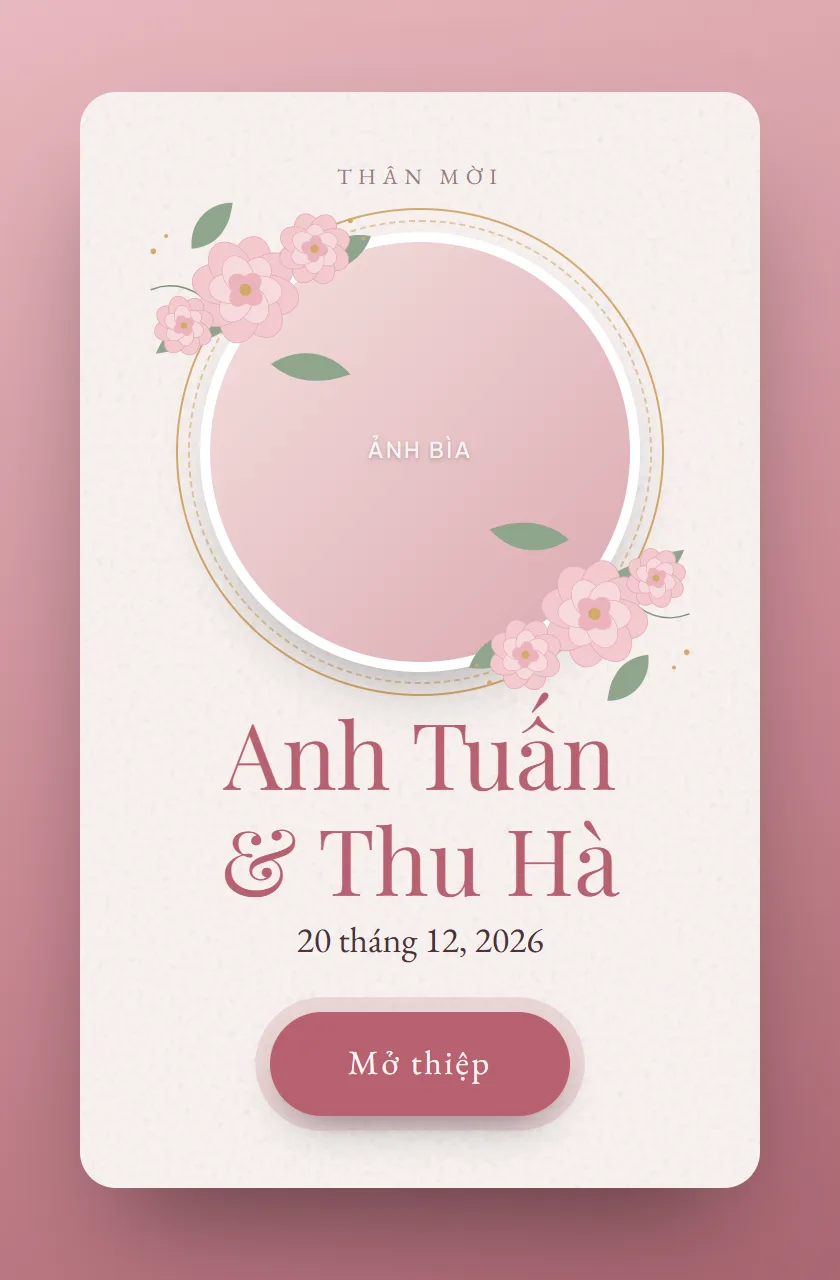
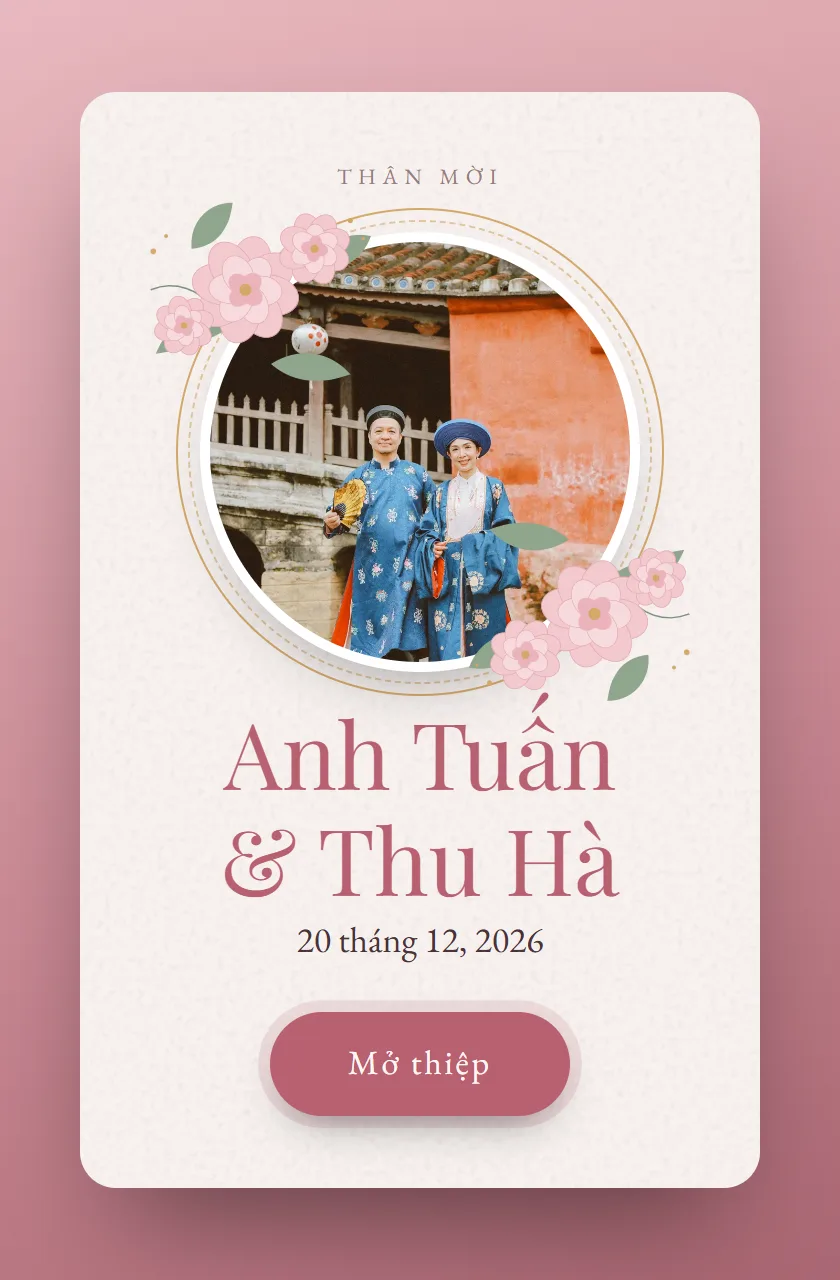
Ảnh demo Unsplash, thẻ album ngang, khối mời tác giả cà phê
- public/demo: 14 ảnh cưới Unsplash (nguồn trong CREDITS.md), chỉ trang demo
  và ảnh OG demo dùng; thiệp mới tạo vẫn trống ảnh
- Album: thẻ tự thành khung ngang khi ảnh ngang; nhận ra cả ảnh đã tải xong
  trước khi React gắn onLoad
- Trang chủ: khối "Mời tác giả cốc cà phê" với VietQR, tài khoản đọc từ
  biến môi trường DONATE_*; chưa đặt thì ẩn
- Ảnh OG đọc được ảnh tĩnh trong public/
- Chụp lại ảnh bìa 8 mẫu (giờ có ảnh thật)

Changed region(s): [[0.2476, 0.1875, 0.7738, 0.5312]]

diff --git a/src/lib/sample.ts b/src/lib/sample.ts
@@ -1,8 +1,20 @@
 import { makeId, type Invitation, type TemplateId } from "@/lib/schema";
 
-/** Dữ liệu mẫu: dùng cho trang demo và làm nội dung khởi tạo khi tạo thiệp mới. */
-export function sampleInvitation(slug: string, template: TemplateId, editKey = makeId() + makeId()): Invitation {
+/** Ảnh demo (Unsplash, xem public/demo/CREDITS.md). Chỉ trang demo dùng, thiệp mới tạo để trống. */
+const DEMO_PHOTOS = {
+  cover: "/demo/cover.webp",
+  saveTheDate: ["/demo/groom.webp", "/demo/bride.webp"],
+  album: ["/demo/album-1.webp", "/demo/album-2.webp", "/demo/album-3.webp", "/demo/album-4.webp", "/demo/album-5.webp", "/demo/album-6.webp", "/demo/album-7.webp", "/demo/album-8.webp"],
+  story: ["/demo/story-1.webp", "/demo/story-2.webp", "/demo/story-3.webp"],
+};
+
+/**
+ * Dữ liệu mẫu: dùng cho trang demo (withPhotos = true, có ảnh) và làm nội dung
+ * khởi tạo khi tạo thiệp mới (không ảnh).
+ */
+export function sampleInvitation(slug: string, template: TemplateId, editKey = makeId() + makeId(), withPhotos = false): Invitation {
   const now = new Date().toISOString();
+  const p = withPhotos ? DEMO_PHOTOS : null;
   return {
     slug,
     template,
@@ -48,12 +60,12 @@ export function sampleInvitation(slug: string, template: TemplateId, editKey = m
       { time: "14:30", title: "Kết thúc tiệc" },
     ],
     story: [
-      { label: "2019", title: "Lần đầu gặp", text: "Chung một nhóm thiện nguyện ở Mộc Châu.", photo: "" },
-      { label: "2022", title: "Chuyến đi đầu tiên", text: "Đà Lạt, mưa suốt ba ngày mà vẫn vui.", photo: "" },
-      { label: "2026", title: "Lời cầu hôn", text: "Bên hồ Tây, một buổi tối tháng Tư.", photo: "" },
+      { label: "2019", title: "Lần đầu gặp", text: "Chung một nhóm thiện nguyện ở Mộc Châu.", photo: p?.story[0] ?? "" },
+      { label: "2022", title: "Chuyến đi đầu tiên", text: "Đà Lạt, mưa suốt ba ngày mà vẫn vui.", photo: p?.story[1] ?? "" },
+      { label: "2026", title: "Lời cầu hôn", text: "Bên hồ Tây, một buổi tối tháng Tư.", photo: p?.story[2] ?? "" },
     ],
     dressCode: ["#2B2320", "#A8894F", "#F2EBDD"],
-    photos: { cover: "", saveTheDate: [], album: [] },
+    photos: p ? { cover: p.cover, saveTheDate: [...p.saveTheDate], album: [...p.album] } : { cover: "", saveTheDate: [], album: [] },
     texts: {
       coverGreeting: "Thân mời",
       saveTheDate: "Save the date",

diff --git a/src/components/Donate.tsx b/src/components/Donate.tsx
@@ -1,0 +1,34 @@
+/* eslint-disable @next/next/no-img-element */
+import { BANKS, vietQrUrl } from "@/lib/banks";
+
+/**
+ * Khối "mời tác giả cốc cà phê" ở cuối trang chủ. Tài khoản lấy từ biến môi
+ * trường (DONATE_BANK_CODE, DONATE_ACCOUNT, DONATE_HOLDER, DONATE_NOTE) để
+ * không ghi số tài khoản vào mã nguồn. Thiếu biến thì không hiện gì.
+ */
+export function Donate() {
+  const bin = process.env.DONATE_BANK_CODE ?? "";
+  const account = process.env.DONATE_ACCOUNT ?? "";
+  const holder = process.env.DONATE_HOLDER ?? "";
+  const note = process.env.DONATE_NOTE ?? "Ca phe cho tac gia thiep cuoi";
+  if (!bin || !account) return null;
+  const bank = BANKS.find((b) => b.bin === bin);
+  return (
+    <section className="donate" aria-label="Ủng hộ tác giả">
+      <div className="donate-qr">
+        <img src={vietQrUrl(bin, account, holder, note)} alt="Mã QR chuyển khoản ủng hộ tác giả" width={150} height={150} loading="lazy" />
+      </div>
+      <div className="donate-text">
+        <p className="home-kicker">Mời tác giả cốc cà phê ☕</p>
+        <h2>Thấy thiệp hữu ích?</h2>
+        <p>
+          Dự án miễn phí, tự chạy trên Vercel và Supabase. Nếu bạn muốn, một cốc cà phê là đủ để mình tiếp tục làm thêm mẫu mới.
+          Quét mã bằng app ngân hàng, số tiền tùy tâm.
+        </p>
+        <p className="donate-acc">
+          {bank?.name ?? "Ngân hàng"} · <b>{account}</b>{holder ? ` · ${holder}` : ""}
+        </p>
+      </div>
+    </section>
+  );
+}

diff --git a/src/components/invitation/Album.tsx b/src/components/invitation/Album.tsx
@@ -56,17 +56,19 @@ function useSwipe(onSwipe: (dir: 1 | -1) => void) {
  */
 function CardPhoto({ src, index }: { src: string; index: number }) {
   const [wide, setWide] = useState(false);
+  const ref = useRef<HTMLImageElement>(null);
+  const check = (img: HTMLImageElement | null) => {
+    if (img && img.naturalWidth) setWide(img.naturalWidth > img.naturalHeight * 1.05);
+  };
+  // Ảnh có thể đã tải xong trước khi React gắn onLoad (SSR + cache) nên kiểm tra thêm lúc gắn
+  useEffect(() => {
+    if (ref.current?.complete) check(ref.current);
+  }, [src]);
   if (!src) return <Photo src="" alt="" label={`Ảnh ${index + 1}`} />;
   return (
     <div className={`photo ${wide ? "is-wide" : ""}`}>
       {wide && <img className="photo-blur" src={src} alt="" aria-hidden="true" draggable={false} />}
-      <img
-        src={src}
-        alt={`Ảnh cưới ${index + 1}`}
-        loading="lazy"
-        draggable={false}
-        onLoad={(e) => setWide(e.currentTarget.naturalWidth > e.currentTarget.naturalHeight * 1.05)}
-      />
+      <img ref={ref} src={src} alt={`Ảnh cưới ${index + 1}`} loading="lazy" draggable={false} onLoad={(e) => check(e.currentTarget)} />
     </div>
   );
 }

diff --git a/src/app/home.css b/src/app/home.css
@@ -431,6 +431,61 @@
   flex: none;
 }
 
+/* ---------- mời cà phê ---------- */
+.donate {
+  display: grid;
+  grid-template-columns: auto 1fr;
+  align-items: center;
+  gap: 24px;
+  padding: 24px 28px;
+  border-radius: 20px;
+  background: linear-gradient(135deg, #f6efe6, #efe6dc);
+  border: 1px solid var(--ui-line);
+}
+
+.donate-qr {
+  padding: 8px;
+  background: #fff;
+  border-radius: 14px;
+  box-shadow: 0 10px 24px -16px rgba(0, 0, 0, 0.4);
+}
+
+.donate-qr img {
+  width: 150px;
+  height: 150px;
+  object-fit: contain;
+  border-radius: 8px;
+}
+
+.donate-text h2 {
+  font-family: var(--font-playfair), Georgia, serif;
+  font-size: 24px;
+  font-weight: 400;
+  margin: 4px 0 8px;
+}
+
+.donate-text p {
+  margin: 0;
+  font-size: 14px;
+  color: var(--ui-muted);
+  line-height: 1.6;
+  max-width: 60ch;
+}
+
+.donate-acc {
+  margin-top: 10px !important;
+  color: var(--ui-fg) !important;
+  font-variant-numeric: tabular-nums;
+}
+
+@media (max-width: 600px) {
+  .donate {
+    grid-template-columns: 1fr;
+    justify-items: center;
+    text-align: center;
+  }
+}
+
 .home-foot {
   text-align: center;
   font-size: 12px;

diff --git a/src/lib/og-image.tsx b/src/lib/og-image.tsx
@@ -35,6 +35,8 @@ async function coverImage(inv: Invitation): Promise<string | null> {
     const store = await getStore();
     if (m && store.readUpload) bytes = (await store.readUpload(m[1], m[2]))?.data ?? null;
     else if (src.startsWith("http")) bytes = new Uint8Array(await (await fetch(src)).arrayBuffer());
+    // ảnh tĩnh trong public/ (ảnh demo)
+    else if (src.startsWith("/") && !src.includes("..")) bytes = new Uint8Array(await readFile(path.join(process.cwd(), "public", src)));
     if (!bytes) return null;
     return await toDataUrl(bytes, PHOTO_W, OG_SIZE.height);
   } catch {

diff --git a/src/app/page.tsx b/src/app/page.tsx
@@ -3,6 +3,7 @@ import Link from "next/link";
 import { THEME_LIST } from "@/lib/templates";
 import { getStore } from "@/lib/store";
 import { CreateForm } from "@/components/editor/CreateForm";
+import { Donate } from "@/components/Donate";
 import "./home.css";
 
 // Danh sách thiệp đọc từ store mỗi lần mở trang
@@ -130,6 +131,8 @@ export default async function Home() {
           </ul>
         </section>
       )}
+
+      <Donate />
 
       <footer className="home-foot">
         <span>Thiệp cưới online · mã nguồn mở, tự chạy trên Vercel + Supabase</span>

diff --git a/src/app/demo/[template]/opengraph-image.tsx b/src/app/demo/[template]/opengraph-image.tsx
@@ -14,5 +14,5 @@ export function generateStaticParams() {
 export default async function Image({ params }: { params: Promise<{ template: string }> }) {
   const { template } = await params;
   if (!TEMPLATE_IDS.includes(template as TemplateId)) return new ImageResponse(<div style={{ width: "100%", height: "100%", background: "#F6EFE3" }} />, OG_SIZE);
-  return ogImage(sampleInvitation("demo", template as TemplateId, "demo-demo-demo"));
+  return ogImage(sampleInvitation("demo", template as TemplateId, "demo-demo-demo", true));
 }

diff --git a/src/app/demo/[template]/page.tsx b/src/app/demo/[template]/page.tsx
@@ -21,6 +21,6 @@ export async function generateMetadata({ params }: Props): Promise<Metadata> {
 export default async function DemoPage({ params }: Props) {
   const { template } = await params;
   if (!TEMPLATE_IDS.includes(template as TemplateId)) notFound();
-  const inv = sampleInvitation("demo", template as TemplateId, "demo-demo-demo");
+  const inv = sampleInvitation("demo", template as TemplateId, "demo-demo-demo", true);
   return <Invitation data={toPublic(inv)} wishes={SAMPLE_WISHES} mode="demo" />;
 }

diff --git a/src/components/invitation/invitation.css b/src/components/invitation/invitation.css
@@ -1162,7 +1162,15 @@
   transform: scale(1);
 }
 
-/* ảnh ngang: nền là ảnh làm mờ, ảnh thật hiện trọn ở giữa */
+/* ảnh ngang: thẻ đổi sang khung ngang (rộng hơn, thấp hơn) cho vừa ảnh */
+.card:has(.photo.is-wide) {
+  left: 1%;
+  right: 1%;
+  top: 19%;
+  bottom: 19%;
+}
+
+/* phần hở nhỏ còn lại (16:9 vào khung 3:2): nền là ảnh làm mờ, ảnh thật hiện trọn ở giữa */
 .photo .photo-blur {
   position: absolute;
   inset: 0;

diff --git a/public/demo/CREDITS.md b/public/demo/CREDITS.md
@@ -1,0 +1,18 @@
+# Ảnh demo
+
+Ảnh từ Unsplash (giấy phép Unsplash, dùng miễn phí). Chỉ dùng cho trang demo.
+
+- `cover.webp` — Couple in traditional vietnamese ao dai outfits — https://unsplash.com/photos/1767603087300-f4816785b685
+- `groom.webp` — A smiling man in a light-colored suit and tie — https://unsplash.com/photos/1766104798125-314e9659cf5a
+- `bride.webp` — A bride in a white ao dai holding a bouquet — https://unsplash.com/photos/1774240627288-e7c6eebb77a9
+- `album-1.webp` — Couple in traditional vietnamese ao dai poses by canal — https://unsplash.com/photos/1767603539928-e6f2cbc30651
+- `album-2.webp` — Woman in white wedding dress beside man in gray suit — https://unsplash.com/photos/1600164913117-2125c1f60b01
+- `album-3.webp` — Couple walking on a beach at sunset (ngang) — https://unsplash.com/photos/1769540209420-f137f98194e8
+- `album-4.webp` — A man in a suit and a woman in a red ao dai walking together — https://unsplash.com/photos/1790845160662-da5c604f96a5
+- `album-5.webp` — A bride and groom standing in the middle of a forest — https://unsplash.com/photos/1674232636722-e346adc6d678
+- `album-6.webp` — Couple in wedding attire by a serene lake at sunset (ngang) — https://unsplash.com/photos/1758727654358-a90614d694eb
+- `album-7.webp` — A bride and groom embracing in front of a window — https://unsplash.com/photos/1683238112862-0290be13cb7b
+- `album-8.webp` — Married couple standing beside beige wall — https://unsplash.com/photos/1544717304-14d94551b7dc
+- `story-1.webp` — Couple kissing under colorful lanterns on street — https://unsplash.com/photos/1767257718909-83b456319d89
+- `story-2.webp` — Couple in a boat adorned with flowers on a lake — https://unsplash.com/photos/1772940817118-f5eba2efe23f
+- `story-3.webp` — Couple in traditional hats walking by the water — https://unsplash.com/photos/1767257718914-c0a6b44e7538

diff --git a/README.md b/README.md
@@ -49,7 +49,9 @@ Lệnh khác: `npm test` (lịch âm, ngày tháng), `npm run typecheck`, `npm r
 - Favicon theo màu mẫu của từng thiệp; `scripts/make-icons.py` sinh bộ icon.
 - **8 mẫu, mỗi mẫu một ngôn ngữ riêng** (`src/lib/templates/index.ts` + phần "điều chỉnh theo mẫu" trong `invitation.css`): cẩm thạch vàng, đỏ rượu phong bì, Song Hỷ, hoa trắng polaroid, xanh sage toàn vòm, xanh đêm sao art-deco (nền tối), hồng phấn màu nước, tối giản kiểu tạp chí. Họa tiết lớn rải dọc hai mép trang (`SideArt`).
 - **Chỉ đường từng lễ**: tiệc chính và các lễ được gom theo địa điểm, mỗi nơi một map (tối đa 3).
-- **Ảnh ngang trong album** hiện trọn trên nền chính ảnh đó làm mờ.
+- **Ảnh ngang trong album**: thẻ tự chuyển sang khung ngang, phần hở nhỏ lót bằng chính ảnh đó làm mờ.
+- **Ảnh demo** trong `public/demo/` lấy từ Unsplash (nguồn ghi ở `public/demo/CREDITS.md`), chỉ trang demo dùng; thiệp mới tạo để trống ảnh.
+- **Mời tác giả cốc cà phê** ở cuối trang chủ: đặt `DONATE_BANK_CODE`, `DONATE_ACCOUNT`, `DONATE_HOLDER` (xem `.env.example`), thiếu thì khối tự ẩn.
 - **Nhạc nền có sẵn**: danh sách trong `src/lib/music.ts`, file MP3 tự đặt vào `public/music/` (không kèm trong repo vì bản quyền).
 - Ảnh mẫu trên trang chủ là ảnh chụp bìa thật: `node scripts/shoot-templates.mjs` (cần dev server + playwright).
 
